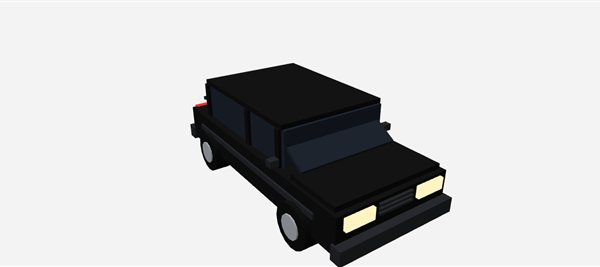
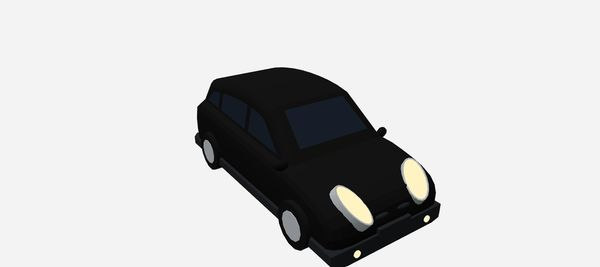
Commuter redrawn from the owner's Micra photographs (CHECKLIST 345)
The starter car, redrawn in render/modelsOrig1b.js from the owner's photographs of
an orange Nissan Micra K12 and the old card picture, at the owner's word to get it
as close as possible: a steep short bonnet into a domed roof, an upright hatch, a
low rising waist under deep windows, body-colour bumpers over a black skirt band
proud all round, bug-eye almond headlamps and tall oval tail lamps, each a silver
ring standing out of the body with a domed lens on top so its outline is the
ring's own rim and never a jagged cut into the body's facets. No wheel arches
(the tyres overlap the body, as the owner asked), the tyres pulled in.

Fixed on the way: the side-window polygon listed its roof samples in the wrong
order after the back-top corner, so its triangle fan overlapped itself and gave
ragged window tops (the old Commuter had the same); the panes now stand clear of
the roof's shoulder so it never overlaps them from above.

Re-seated: the lamp table entry (from scripts/lamps.mjs, with a reverse lens),
the plate anchors (plate-anchors.mjs, audit clean), the prop bounds for the
commuter and l-commuter (prop-anchors.mjs), the proptag/platetag baselines
(re-recorded: only the Commuter rows and its variants changed), the fallback
card pictures carshots/commuter-*.jpg. 15 shapes, 2,084 triangles, 7 draw
calls; hitbox and stats unchanged. Checks: cars group, glass-contour (as main),
proptag, platetag, propanchors, suspension, modelviews, eslint.
[…]

diff --git a/src/delivery/render/modelsOrig1b.js b/src/delivery/render/modelsOrig1b.js
@@ -170,78 +170,111 @@ const shadeLow = (geo, y0, y1, low) => {
 export const ORIG1B_MODELS = {};
 
 // ---- the Commuter -----------------------------------------------------------------------------------------------------
-// The starter car: a bubbly little five-door city hatchback (a Nissan Micra of the 2000s). Tall and short, one round
-// body: a short blunt nose and a high, bulbous bonnet sweeping up into a big raked windscreen, a tall glasshouse under a
-// roof that curves down to an upright hatch; fat wheel arches over small wheels with plain silver hub caps; big almond
-// headlamps up on the front wings' corners, a small oval grille between them, tall tail lamps up the rear corners;
-// black bumpers and sills under it all (a wide dark mouth with two round fog lamps); round mirrors in the paint. The
-// paint shades to a deeper red-orange low down (vertex colours).
+// The starter car, redrawn from the owner's photographs of a 2000s Nissan Micra (K12) and the old card picture: a
+// bubble. One round body, tall and short: a steep stubby bonnet dropping to a blunt round nose, a big raked windscreen
+// into a DOMED roof (its crown over the front seats) that falls away to an upright hatch; a low waist that rises toward
+// the back under deep windows; bug-eye headlamps, almond lenses in silver bezel rings standing out of the nose's corners
+// and sweeping back along the wings; a small two-slot grille; body-colour bumpers (as the photographs) over a chunky
+// black skirt ring that runs right round the car's foot, 3 cm proud, with the mouth and two round fog lamps in its
+// front face; tall oval tail lamps in silver rings up the rear corners, a clear lens low in each; round mirrors in the
+// paint; plain silver hub caps on small fat tyres that overlap the body's lower corners (no wheel arches: the owner,
+// 15-Oct, "the tyres clipping through a rigid body is good enough"). The paint shades a little deeper and redder low
+// down (vertex colours). Every lamp is a silver RING standing out of the body along its surface's normal with a domed
+// lens on top, so its outline is the ring's own smooth rim and never a jagged cut into the body's facets; every pane of
+// glass stands clear of the body's bevels (its own crisp edge).
 ORIG1B_MODELS.commuter = (car) => {
   const group = new THREE.Group();
-  const W = car.hw, L = car.hl, R = 0.3; // (as before: radius 0.3, the axles at ±0.31 of the length)
-  const k = 'commuter' + [W, L].join(',');
+  const W = car.hw, L = car.hl, R = 0.3; // (as before: radius 0.3, the axles at ±0.62 of the half length)
+  const k = 'commuterA' + [W, L].join(',');
   const paint = new THREE.MeshLambertMaterial({ color: car.color, vertexColors: true });
-  const AX = 0.62 * L, BEV = 0.12, BW = 2 * W; // (the body a little narrower than the track: the tyres stand proud)
-  const NOSE = L - BEV - 0.05, TAILZ = -L + BEV + 0.12, BELT = 0.72, SILL = 0.36;
-  // the body, side on: one plain shape with a straight lower line (no wheel arches: the wheels overlap its corners);
-  // the nose's blunt face rounding over into a short, high bonnet, the waist rising to the back, a short round tail
-  const WSF = [1.2, BELT + 0.02], BR = BELT + 0.08;              // (the windscreen's foot; the waist at the back)
+  const AX = 0.62 * L, BEV = 0.14, BW = 2 * W; // (the body's flanks at the hitbox; the tyres stand proud of its rounded foot)
+  const NOSE = L - BEV - 0.02, TAILZ = -L + BEV + 0.04, FLOOR = 0.22;
+  // the body, side on: a straight lower line (the bumpers are the body's own ends), the front bumper's face rounding
+  // up and over into the steep short bonnet, the waist rising to the back, the tail upright with a soft shoulder
+  // (the outline grows by BEV all round: the waist's surface is BEV above these points)
+  const WSF = [0.98, 0.76], WAIST_R = [TAILZ + 0.12, 0.86];      // (the windscreen's foot; the waist at the back)
   const bodyOutline = [
-    [NOSE - 0.05, SILL], ...curve([NOSE - 0.05, SILL], [NOSE + 0.03, 0.56], [NOSE - 0.06, BELT - 0.02], WSF, 7),
-    [TAILZ + 0.14, BR], ...curve([TAILZ + 0.14, BR], [TAILZ + 0.01, BR - 0.02], [TAILZ - 0.01, BR - 0.12], [TAILZ, 0.6], 3),
-    ...curve([TAILZ, 0.6], [TAILZ, 0.46], [TAILZ + 0.01, SILL + 0.02], [TAILZ + 0.08, SILL], 2),
+    [NOSE - 0.02, FLOOR], [NOSE + 0.02, 0.34], ...curve([NOSE + 0.02, 0.34], [NOSE + 0.04, 0.48], [NOSE - 0.02, 0.58], [NOSE - 0.16, 0.63], 4),
+    ...curve([NOSE - 0.16, 0.63], [1.5, 0.66], [1.25, 0.72], WSF, 5),
+    WAIST_R, ...curve(WAIST_R, [TAILZ - 0.02, 0.84], [TAILZ - 0.04, 0.66], [TAILZ - 0.03, 0.46], 3),
+    [TAILZ + 0.01, 0.3], [TAILZ + 0.04, FLOOR],
   ];
-  // the glasshouse, side on: a big raked windscreen, a tall arched roof, an upright hatch
-  const CBEV = 0.1, CW = BW - 0.08, TOP = car.height - CBEV, CY = BELT - 0.2;
-  const TAPER = [CY - CBEV, TOP, 0.18];
-  const WS = [[WSF[0] + 0.12, CY], [0.18, TOP - 0.06]];         // the windscreen, foot to top (its foot in the body)
-  const HATCH = [[-1.42, TOP - 0.1], [TAILZ + 0.02, CY]];        // the hatch's glass, top to foot
-  const roof = [WS[1], ...curve(WS[1], [-0.15, TOP + 0.06], [-1.05, TOP + 0.05], HATCH[0], 8)];
+  // the glasshouse, side on: a big raked windscreen, a domed roof crowned over the front seats, an upright hatch
+  const CBEV = 0.11, CW = BW - 0.06, TOP = car.height - CBEV, CY = WSF[1] - 0.1;
+  const TAPER = [CY - CBEV, TOP, 0.2];
+  const WS = [[WSF[0] + 0.1, CY], [0.22, TOP - 0.03]];          // the windscreen, foot to top (its foot in the body)
+  const HATCH = [[-1.42, TOP - 0.12], [TAILZ + 0.02, 0.8]];      // the hatch's glass, top to foot (its foot in the body)
+  const roof = [WS[1], ...curve(WS[1], [-0.1, TOP + 0.07], [-0.9, TOP + 0.04], HATCH[0], 8)];
   const cabinOutline = [WS[0], ...roof, HATCH[1]];
-  const mirrorX = narrowAt(CW / 2, 0.9, TAPER) + 0.06;
+  const mirrorX = narrowAt(CW / 2, 0.9, TAPER) + 0.07;
   const body = place(group, shared(k + 'body', () => shadeLow(merge([
-    extrudeSide(bodyOutline, BW, BEV, null, 3, 0.2),
-    extrudeSide(cabinOutline, CW, CBEV, TAPER, 3, 0.14),
-    ...[-1, 1].map(s => blob(0.1, 0.065, 0.06, s * mirrorX, 0.9, 0.8, 0, s * 0.3, [8, 5])),   // the mirrors
-  ]), 0.2, 0.75, [0.82, 0.6, 0.58])), paint);
-  // the glass: the windscreen, the hatch's window, three windows a side (front door, rear door, the quarter)
+    extrudeSide(bodyOutline, BW, BEV, null, 3, 0.24),
+    extrudeSide(cabinOutline, CW, CBEV, TAPER, 3, 0.16),
+    ...[-1, 1].map(s => blob(0.1, 0.07, 0.06, s * mirrorX, 0.9, 0.78, 0, s * 0.3, [8, 5])),   // the mirrors
+  ]), 0.2, 0.7, [0.84, 0.64, 0.6])), paint);
+  // the glass: the windscreen, the hatch's window, three windows a side (front door, rear door, the quarter), their
+  // sills just above the body's rounded shoulder on the rising waist and their tops under the roof's dome
   const LIFT = CBEV + 0.006, CH = CW / 2;
-  const foot = (z) => heightAt([WSF, [TAILZ + 0.14, BR]], z) + 0.06;  // (the windows' sills, on the waist)
-  const top = (z) => heightAt(roof, z) - 0.04;
+  const foot = (z) => heightAt([WSF, WAIST_R], z) + BEV + 0.03;
+  const top = (z) => heightAt(roof, z) - 0.06; // (well under the roof's shoulder: seen from above, its edge never overlaps the glass)
   const zAt = ([[z0, y0], [z1, y1]], y) => z0 + (z1 - z0) * (y - y0) / (y1 - y0);
   const aEdge = (y) => zAt(WS, y) - 0.1, cEdge = (y) => zAt(HATCH, y) + 0.1;
+  // (a side window: its sill on the waist, its top under the roof at an even distance, its front and back edges along
+  // the pillars; the top sampled only between the pillars' tops, so it never runs off the roof's curve)
   const window = (z0, z1, front = null, back = null) => {
-    const f0 = foot(z0), f1 = foot(z1), t0 = top(z0), t1 = top(z1);
-    return [[front ? front(f0) : z0, f0], [back ? back(f1) : z1, f1], [back ? back(t1 - 0.02) : z1, back ? t1 - 0.02 : t1],
-      ...[0.66, 0.33].map(t => z1 + (z0 - z1) * t).map(z => [z, top(z)]).filter(([z]) => !front || z < front(t0)),
-      [front ? front(top(front(t0))) : z0, front ? top(front(t0)) : t0]];
+    const f0 = foot(z0), f1 = foot(z1);
+    const zTF = front ? front(top(z0)) : z0, zTB = back ? back(top(z1)) : z1;
+    return [[front ? front(f0) : z0, f0], [back ? back(f1) : z1, f1], [zTB, top(zTB) - (back ? 0.02 : 0)],
+      ...[0.2, 0.4, 0.6, 0.8].map(s => zTB + (zTF - zTB) * s).map(z => [z, top(z)]), [zTF, top(zTF)]]; // (in order round it, back to front: a fan of a zigzag is ragged)
   };
   parts(group, k + 'glass', GLASS, () => [
-    slopeGlass([zAt(WS, foot(WSF[0]) - 0.04), foot(WSF[0]) - 0.04], WS[1], CH, TAPER, CBEV + 0.03, [0.02, 0.04], LIFT),
-    slopeGlass([zAt(HATCH, BR + 0.06), BR + 0.06], HATCH[0], CH, TAPER, CBEV + 0.06, [0.02, 0.06], LIFT),
+    slopeGlass([zAt(WS, foot(WSF[0])), foot(WSF[0])], WS[1], CH, TAPER, CBEV + 0.07, [0.02, 0.09], LIFT),
+    slopeGlass([zAt(HATCH, 1.03), 1.03], HATCH[0], CH, TAPER, CBEV + 0.09, [0.02, 0.1], LIFT),
     ...sideGlass([
-      window(aEdge(foot(1.0)), -0.16, aEdge),
-      window(-0.26, -0.98),
-      window(-1.08, cEdge(foot(-1.3)), null, cEdge),
-    ], CH, TAPER, 0.006),
+      window(aEdge(foot(0.9)), -0.14, aEdge),
+      window(-0.24, -0.96),
+      window(-1.06, cEdge(foot(-1.3)), null, cEdge),
+    ], CH, TAPER, 0.016),
   ]);
-  // the lamps: big teardrops on the nose's corners, sweeping back and up into the wings; tall tail lamps up the rear
-  // corners
-  parts(group, k + 'lamp', LAMP, () => [-1, 1].map(s => tear(0.16, 0.11, 0.3, s * 0.56, 0.63, NOSE - 0.02, 0.55, -s * 0.75)));
-  parts(group, k + 'tail', TAIL, () => [-1, 1].map(s => blob(0.08, 0.16, 0.06, s * 0.64, 0.66, TAILZ - BEV + 0.03)));
-  // black: the bumpers (level with the sill, round the corners), the skirt under the body, the mouth under the nose,
-  // the little oval grille over it
-  const FZ = NOSE + 0.09; // (the front bumper's face)
+  // the lamps: each a silver BEZEL, a short elliptical ring standing out of the body along its surface's normal, with a
+  // domed lens on top. The headlamps bug-eye almonds on the nose's corners, long axis from low at the front up and back
+  // along the wing; the tail lamps tall ovals up the rear corners, a clear lens low in each
+  const ring = (rx, ry, depth, out, x, y, z, pitch, yaw, seg = 20) => {
+    const geo = new THREE.CylinderGeometry(1, 1, depth, seg, 1, false).scale(rx, 1, ry).rotateX(Math.PI / 2).translate(0, 0, out - depth / 2);
+    if (pitch) geo.rotateX(pitch);
+    if (yaw) geo.rotateY(yaw);
+    return geo.translate(x, y, z);
+  };
+  const dome = (rx, ry, h, out, x, y, z, pitch, yaw) => {
+    const geo = new THREE.SphereGeometry(1, 20, 3, 0, Math.PI * 2, 0, Math.PI / 2).rotateX(Math.PI / 2).scale(rx, ry, h).translate(0, 0, out);
+    if (pitch) geo.rotateX(pitch);
+    if (yaw) geo.rotateY(yaw);
+    return geo.translate(x, y, z);
+  };
+  const HL = [0.5, 0.66, NOSE - 0.03], HP = -0.95, HY = 0.4; // (the headlamp's place; its pitch, the ring's axis the nose corner's normal; its splay)
+  const TL = [0.66, 0.66, TAILZ - BEV + 0.03]; // (the tail lamp's place; its ring's axis straight back)
+  parts(group, k + 'bezel', SILVER, () => [
+    ...[-1, 1].map(s => ring(0.15, 0.28, 0.24, 0.09, s * HL[0], HL[1], HL[2], HP, -s * HY)),
+    ...[-1, 1].map(s => ring(0.1, 0.18, 0.22, 0.09, s * TL[0], TL[1], TL[2], Math.PI, 0)),
+  ]);
+  parts(group, k + 'lamp', LAMP, () => [
+    ...[-1, 1].map(s => dome(0.13, 0.26, 0.05, 0.09, s * HL[0], HL[1], HL[2], HP, -s * HY)),
+    ...[-1, 1].map(s => dsc(0.03, 0.02, s * TL[0], TL[1] - 0.075, TL[2] - 0.118, 12)),   // the clear lenses
+  ]);
+  parts(group, k + 'tail', TAIL, () => [-1, 1].map(s => dome(0.085, 0.16, 0.035, 0.09, s * TL[0], TL[1], TL[2], Math.PI, 0)));
+  // black: the skirt ring round the car's foot (3 cm proud of the flanks and both bumpers), the mouth and the two
+  // grille slots on the nose, the hatch's handle strip
+  const FZ = NOSE + 0.19, RZ = TAILZ - 0.19; // (the skirt's front and rear faces)
   parts(group, k + 'black', TRIM, () => [
-    extrudeSide([[AX - 0.1, 0.16], [NOSE - 0.02, 0.16], [NOSE + 0.04, 0.24], [NOSE + 0.04, 0.42], [AX - 0.1, 0.42]], BW + 0.02, 0.05, null, 2, 0.18),
-    extrudeSide([[-AX + 0.1, 0.16], [TAILZ + 0.02, 0.16], [TAILZ - 0.04, 0.24], [TAILZ - 0.04, 0.44], [-AX + 0.1, 0.44]], BW + 0.02, 0.05, null, 2, 0.18),
-    bx(BW - 0.06, 0.12, 2 * AX, 0, 0.27, 0),
-    blob(0.34, 0.08, 0.05, 0, 0.33, FZ - 0.02, 0, 0, [12, 6]),
-    blob(0.16, 0.045, 0.04, 0, 0.58, NOSE + 0.1, 0.4, 0, [10, 5]),
+    // (the skirt band: its corners rounded in plan as the body's are, its top and bottom edges rounded over)
+    extrudeSide([[FZ - 0.05, 0.17], [FZ - 0.05, 0.29], [RZ + 0.05, 0.29], [RZ + 0.05, 0.17]], BW + 0.06, 0.05, null, 2, 0.2),
+    bx(0.5, 0.07, 0.06, 0, 0.38, FZ - 0.01),                                                   // the mouth
+    ...[-1, 1].map(s => blob(0.11, 0.03, 0.03, s * 0.17, 0.54, NOSE + 0.145, 0.45, 0, [8, 4])),     // the grille slots
+    bx(0.4, 0.03, 0.03, 0, 0.9, TAILZ - BEV + 0.01),                                           // the hatch's handle strip
   ]);
-  parts(group, k + 'fog', LAMP, () => [-1, 1].map(s => dsc(0.045, 0.03, s * 0.55, 0.32, FZ + 0.005, 10)));
-  // the wheels: small fat tyres, plain silver hub caps
-  for (const side of [-1, 1]) for (const z of [AX, -AX]) wheel(group, k, R, 0.26, side * (W - 0.04), z, 0.19, SILVER);
+  parts(group, k + 'fog', LAMP, () => [-1, 1].map(s => dsc(0.045, 0.03, s * 0.56, 0.23, FZ + 0.005, 10)));
+  // the wheels: small fat tyres, plain silver hub caps, their outer faces just proud of the skirt
+  for (const side of [-1, 1]) for (const z of [AX, -AX]) wheel(group, k, R, 0.26, side * (W - 0.06), z, 0.19, SILVER);
   group.userData = { body, animate: () => {} };
   return group;
 };

diff --git a/src/delivery/render/carlights.js b/src/delivery/render/carlights.js
@@ -45,16 +45,19 @@ import { BATCH_D3_LAMPS } from './carlights-batchD3.js'; // (batch D3's idea car
 
 // (the hand-written entries; the generated batches are merged in under them: TABLE)
 export const CAR_LAMPS = {
-  // The Commuter (render/modelsOrig1b.js): big teardrop headlamps on the nose's corners sweeping back into the wings,
-  // tall oval tail lamps up the rear corners. No indicator lenses at all: the front ones flash on the outer tail of
-  // the headlamp's teardrop, the rear ones on the foot of the tail lamp.
+  // The Commuter (render/modelsOrig1b.js, redrawn 15-Oct from the owner's Micra photographs): bug-eye almond
+  // headlamps in silver rings on the nose's corners, leaning back up the wings; tall oval tail lamps in silver rings up
+  // the rear corners, a clear reversing lens low in each; two small round fog lamps in the skirt's front face (not
+  // lamps the table drives). No indicator lenses: the front ones flash on the outer edge of the headlamp's almond, the
+  // rear ones on the outer edge of the tail lamp. (Placed from scripts/lamps.mjs's draft of the new body.)
   commuter: {
-    head: [{ at: [0.57, 0.64, 1.835], size: [0.24, 0.2], round: true, mirror: true }],
-    tail: [{ at: [0.64, 0.66, -1.757], size: [0.14, 0.3], round: true, mirror: true }],
+    head: [{ at: [0.48, 0.733, 1.909], size: [0.291, 0.303], round: true, mirror: true }],
+    tail: [{ at: [0.66, 0.66, -1.905], size: [0.17, 0.32], round: true, mirror: true }],
     blink: [
-      { at: [0.7, 0.72, 1.7], size: [0.1, 0.1], round: true, mirror: true, shared: 'headlamp' },
-      { at: [0.64, 0.56, -1.76], size: [0.11, 0.1], round: true, mirror: true, shared: 'tail lamp' },
+      { at: [0.575, 0.733, 1.909], size: [0.1, 0.1], round: true, mirror: true, shared: 'headlamp' },
+      { at: [0.711, 0.66, -1.905], size: [0.068, 0.1], round: true, mirror: true, shared: 'tail lamp' },
     ],
+    reverse: [{ at: [0.66, 0.585, -1.908], size: [0.06, 0.06], round: true, mirror: true }],
   },
   // The Lowrider (render/modelsOrig2.js, a '60s Impala): two round headlamps a side; three round tail lamps a side,
   // the inner one the brake lamp. No amber anywhere: the rear indicators are the outer tail lamps flashing red (as the

diff --git a/src/delivery/render/plateanchorstable.js b/src/delivery/render/plateanchorstable.js
@@ -152,8 +152,9 @@ export const PLATE_TABLE = {
   yellowcab: { r: [0.455, -2.68, 0.52, 0], f: [0.455, 2.68, 0.52, 0] },
 };
 export const PLATE_VARIANTS = {
-  'super-nissank': { r: [0.6, -2.392, 0.52, 0], f: [0.885, 2.392, 0.52, 0] },
+  commuter: { r: [0.553, -1.838, 0.52, 1], f: [0.263, 1.88, 0.52, 0] },
   sixwheeler: { r: [0.56, -2.081, 0.52, 0], f: [0.36, 2.09, 0.52, 0] },
+  'super-nissank': { r: [0.6, -2.392, 0.52, 0], f: [0.885, 2.392, 0.52, 0] },
   'super-polytruck': { r: [0.58, -2.87, 0.52, 0], f: [0.68, 2.864, 0.52, -20.3] },
   'super-postvan': { r: [0.375, -2.19, 0.52, 0], f: [0.74, 2.1, 0.52, 0] },
   'super-rearengine': { r: [0.805, -2.064, 0.52, 0], f: [0.48, 2.147, 0.52, 6.4] },

diff --git a/CHECKLIST.md b/CHECKLIST.md
@@ -754,3 +754,4 @@ Working list, from the owner's ideas of 2026-10-09. `[x]` done, `[~]` partly don
 - [ ] 342. NO-BIKE / NO-FLYING RULE (15-Oct) applied to existing cars: Scooter and Sidecar, Gyro Car, Flying Car, UFO, Saucer, Hovercraft break it; the owner has not said what to do (nothing was changed).
 - [ ] 343. MORE THEMES offered, not built: Nordic fjord (long rock tunnels, a ferry, an underground roundabout), neon future city, medieval castle town, oil field, airport apron.
 - [ ] 344. TIDY: `.platecosmetic-check` and `.cosmetics-own-check` snapshot `main`'s vite.config.js and fail now (a check fix); the Stelvio `?level=30` "No car for this level" `flow` console error with the tier rule on (on main); stale comments in ecu.js / carsources.js (replay-hashed: edit only with a version bump); stray items 440 and 450; the Courier Special is unavailable but not flagged hidden; about 70 merged or dead remote branches to delete (the owner must: remote deletion gives 403 here).
+- [ ] 345. COMMUTER REDRAWN (the owner, 15-Oct: "make the Commuter look less ugly ... everyone's first impression", with photographs of an orange Nissan Micra K12 and the old card picture; "do a draft where you try to get it as close as possible", "don't model a wheel well, the tyres clipping through a rigid body is good enough", "make sure the glass edges are crisp", "the bottom black trim is not sticking out enough", "the wheels stick out too much", "the rear lights are too inset"). Branch `claude/commuter-fix-a`, one draft (the b/c drafts of the brief were dropped at the owner's word). `render/modelsOrig1b.js commuter`: the same two-extrusion construction, redrawn: a steep short bonnet into a domed roof crowned over the front seats, an upright hatch, a low waist rising to the back under deep windows, body-colour bumpers over a black skirt band 3 cm proud all round (its corners rounded in plan), a two-slot grille, bug-eye almond headlamps and tall oval tail lamps each a silver ring standing out of the body with a domed lens on top (so the outline is the ring's rim, never a jagged cut), a clear reversing lens in each tail lamp, the tyres pulled in (W - 0.06). FOUND AND FIXED on the way: the side-window polygon listed its roof samples front-to-back after the back-top corner, so the fan overlapped itself and gave the ragged window tops the old Commuter had too; the panes now also stand 1.6 cm proud and 6 cm under the roof line, so the roof's shoulder never overlaps them from above. 15 shapes, 2,084 triangles (was 764 / later 1,764 dressed), 7 draw calls; footprint the same hitbox (hw 0.85, hl 1.85, h 1.45; lamps and skirt stand 3 to 6 cm beyond the ends, under 5 %). Stats untouched. RE-SEATED: the lamp table (`carlights.js commuter`, from `scripts/lamps.mjs`'s draft, plus a reverse lens), plates (`scripts/plate-anchors.mjs commuter --write`: rear [0.553, -1.838], front [0.263, 1.88], both 0.52 wide; `plate-placement-audit.mjs commuter`: no flags), props (`scripts/prop-anchors.mjs commuter l-commuter --write`: roof s1.15, wing s0.78, no cargo), the proptag/platetag baselines re-recorded (`--record`; only the commuter rows and their super/legendary/traffic variants changed), the fallback card pictures `carshots/commuter-good|evil.jpg` re-shot. CHECKED: node --check, eslint, the cars group (6 ok), `.glass-contour-check` (the same five failures as main, the Commuter not among them), `.proptag-check`, `.platetag-check`, `.propanchors-check`, `.suspension-check`, `.modelviews-check` all ok. SEEN in stills (software GL, 2x): front, 3/4 front, side, 3/4 rear, rear, top, Evil, the garage card, close crops of the lamps and the window edges from three angles. NOT SEEN: the Legendary Commuter with its gold trim and laurel (the `?garage&look=l-commuter` still opened on the plain Commuter), the car in traffic from the driving camera (the frame caught no traffic), the lamps lit (`?lamps=night`), the plate and props worn, motion, a real device. Not merged, no version bump.
